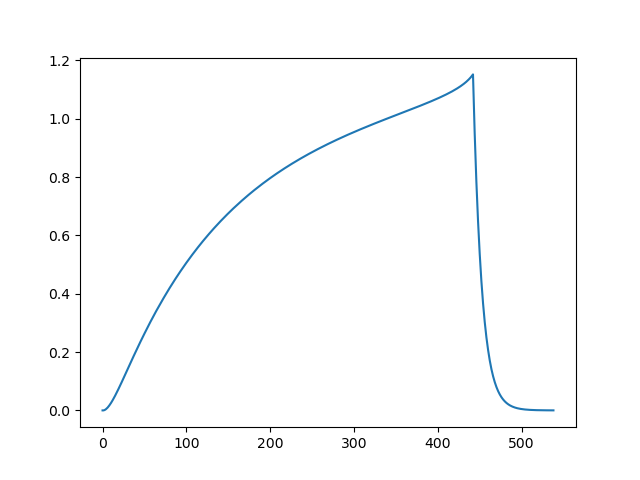
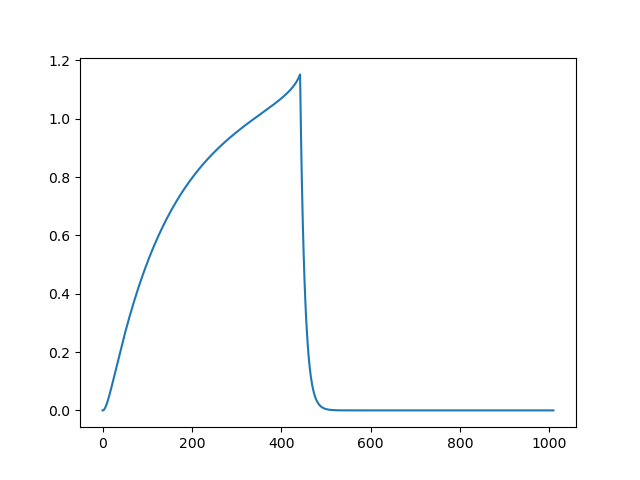
задание выполнено, но непонятно что это..

diff --git a/scripts/talker.py b/scripts/talker.py
@@ -55,6 +55,7 @@ phi_noise_arr = []
 phi_noise_filtered_arr = []
 
 
+phi_filtered = []
  
 def init():
     x_k = 0
@@ -99,7 +100,7 @@ def go_to_point(x_k, y_k, fi_k, x_ref, y_ref, v, dt):
     
  
 def talker():
-    global dx_arr, dy_arr, phi_xy_arr, phi_xy_filtered_arr, phi_noise_arr, phi_noise_filtered_arr
+    global dx_arr, dy_arr, phi_xy_arr, phi_xy_filtered_arr, phi_noise_arr, phi_noise_filtered_arr, phi_filtered
 
     T = 0.1
     eps = 5e-2
@@ -160,6 +161,10 @@ def talker():
         phi_noise_filtered_arr.append(phi_k_noise_filtered)
 
 
+        
+        phi_kf =  (phi_xy_filtered + phi_k_noise_filtered)/2.
+        phi_filtered.append(phi_kf)
+
 
         x_k_prev = x_k
         y_k_prev = y_k
@@ -205,4 +210,8 @@ if __name__ == '__main__':
 
     plt.plot(phi_noise_filtered_arr)
     plt.savefig('fi_noise_filtered.png')
+    plt.clf()
+
+    plt.plot(phi_filtered)
+    plt.savefig('fi_filtered_RESULT.png')
     plt.clf()
